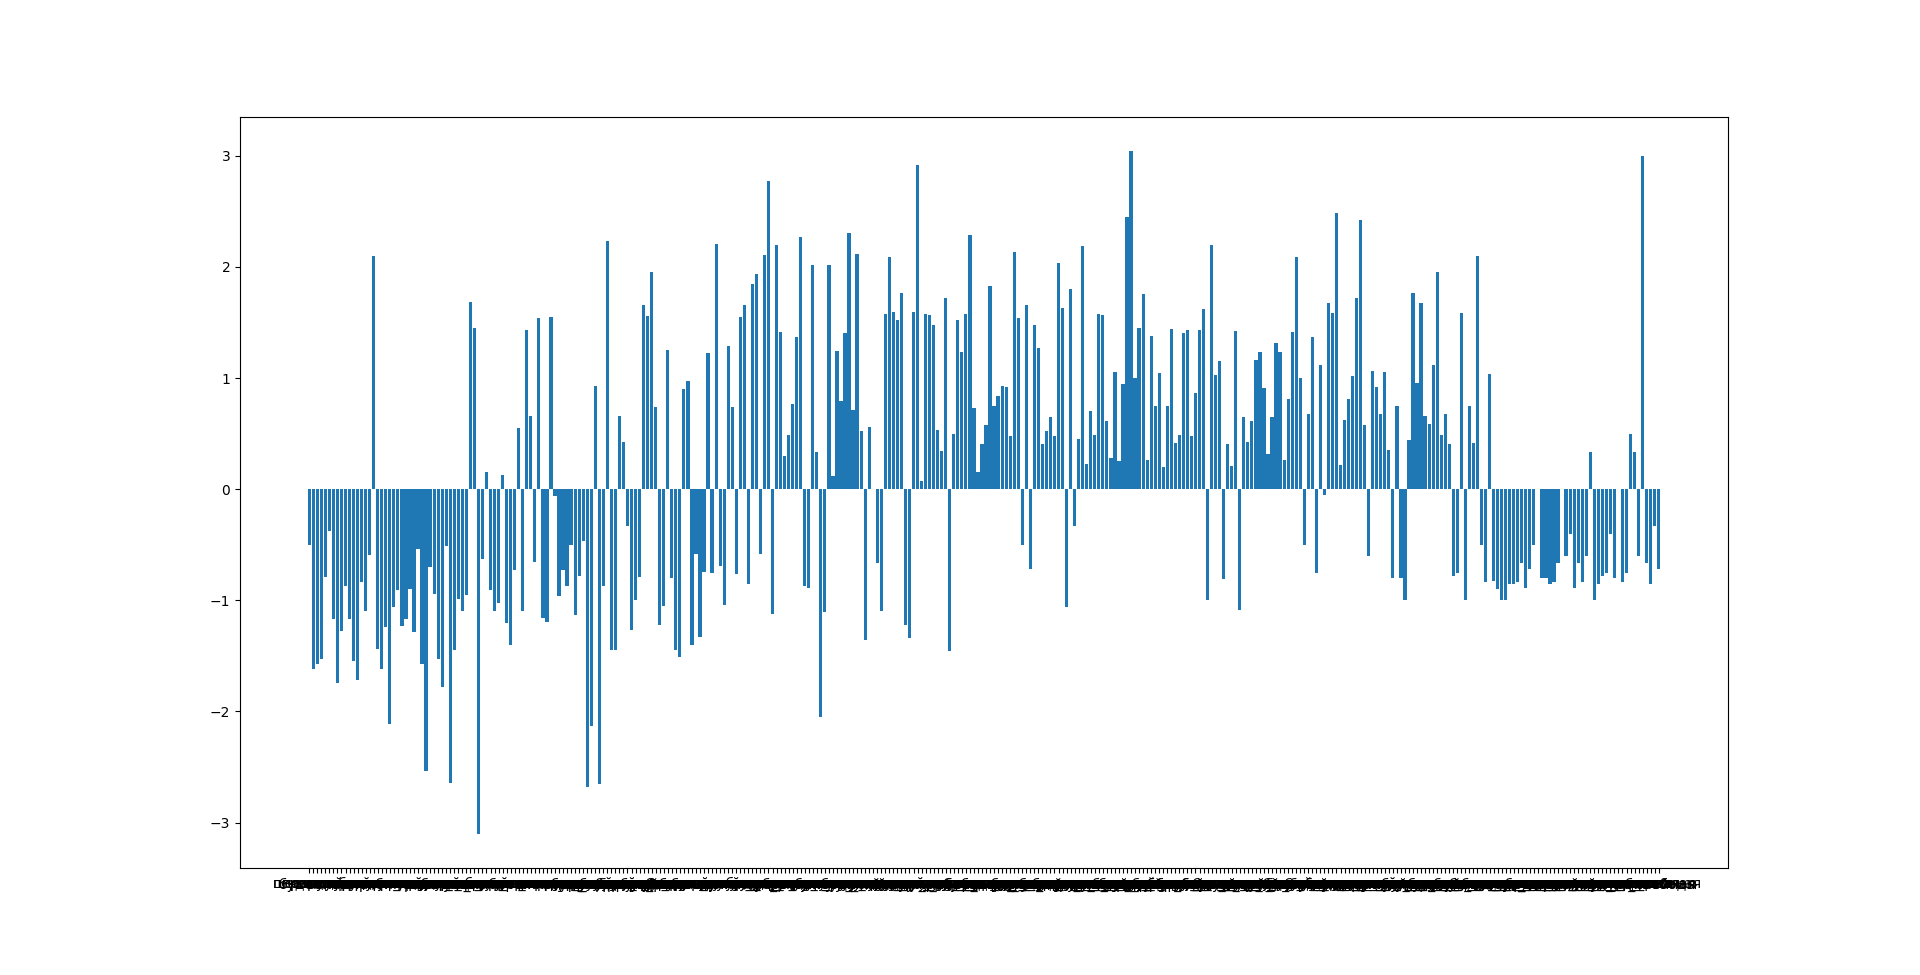
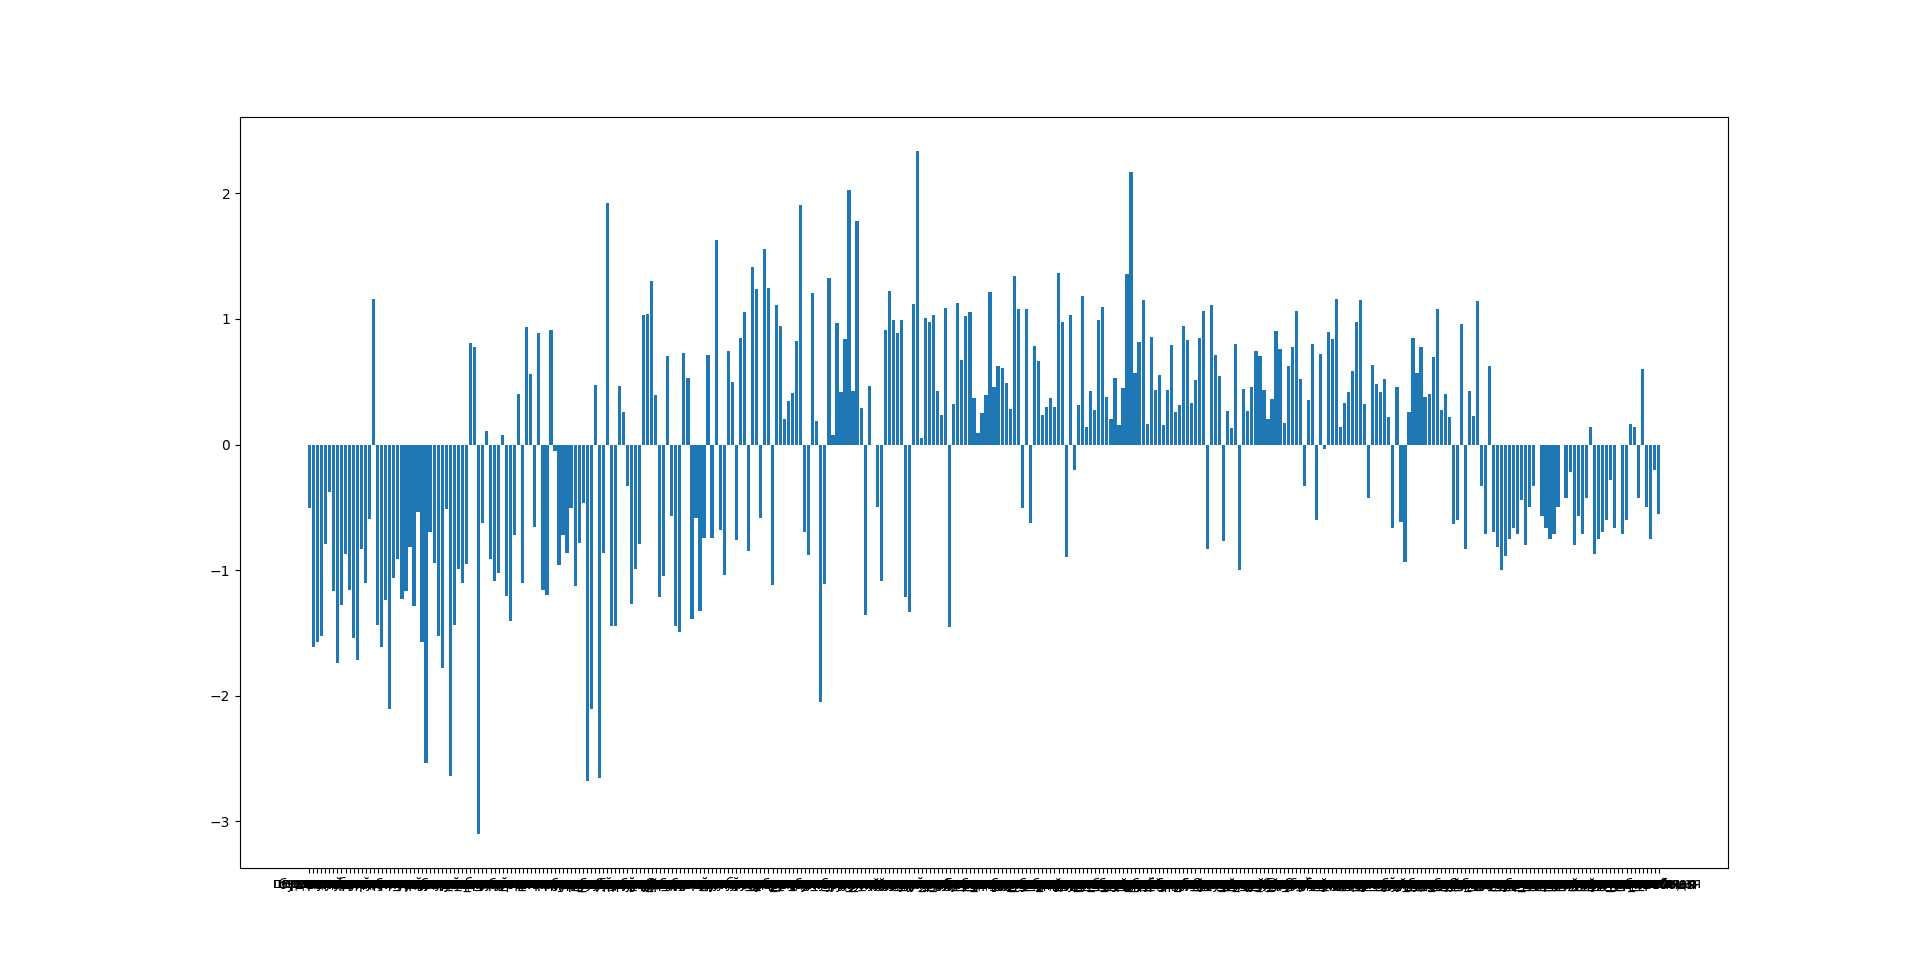
fix + comparing weekends and weekdays

diff --git a/scooters_per_point_weekends.py b/scooters_per_point_weekends.py
@@ -1,0 +1,42 @@
+import pandas as pd
+import matplotlib.pyplot as plt
+import datetime
+
+
+def day_maker(arg):
+    arg = datetime.datetime.strptime(arg, '%Y-%m-%d %H:%M:%S')
+    return str(arg.month) + str(arg.day)
+
+
+def is_weekend(arg):
+    arg = datetime.datetime.strptime(arg, '%Y-%m-%d %H:%M:%S')
+    return arg.weekday()
+
+
+df = pd.read_csv('rides_final.csv', sep=',', encoding='utf-8',
+                 skipinitialspace=True, keep_default_na=False, na_values=('', ' '), decimal=',').fillna('NaN')
+
+df['day'] = df['start_date'].apply(lambda arg: day_maker(arg))
+df['week_day'] = df['start_date'].apply(lambda arg: is_weekend(arg))
+
+starts_n_ends_weekends = {}
+starts_n_ends_weekday = {}
+
+data_start_weekends = df[df['week_day'] >= 5]['start_location'].str.lower().str.replace(' ', '-').value_counts()
+data_start_weekday = df[df['week_day'] < 5]['start_location'].str.lower().str.replace(' ', '-').value_counts()
+
+data_end_weekends = df[df['week_day'] >= 5]['end_location'].str.lower().str.replace(' ', '-').value_counts()
+data_end_weekday = df[df['week_day'] < 5]['end_location'].str.lower().str.replace(' ', '-').value_counts()
+
+for i in df['start_location'].unique():
+    try:
+        data = df[(df['start_location'] == i) | (df['end_location'] == i)]
+        starts_n_ends_weekends[i] = (data_end_weekends[i] - data_start_weekends[i]) / data[data['week_day'] >= 5]['day'].unique().shape[0]
+        starts_n_ends_weekday[i] = (data_end_weekday[i] - data_start_weekday[i]) / data[data['week_day'] < 5]['day'].unique().shape[0]
+    except KeyError as exp:
+        pass
+
+plt.bar(starts_n_ends_weekends.keys(), starts_n_ends_weekends.values())
+plt.bar(starts_n_ends_weekday.keys(), starts_n_ends_weekday.values())
+
+plt.show()

diff --git a/scooters_per_point.py b/scooters_per_point.py
@@ -14,13 +14,9 @@ starts_n_ends = {}
 
 for i in df['start_location'].unique():
     try:
+        data = df[(df['start_location'] == i) | (df['end_location'] == i)]
         starts_n_ends[i] = data_end[i] - data_start[i]
-        days = []
-        data = df[df['start_location'] == i]['day']
-        for j in data:
-            if j not in days:
-                days.append(j)
-        starts_n_ends[i] /= len(days)
+        starts_n_ends[i] /= data['day'].unique().shape[0]
     except KeyError as exp:
         pass
 
